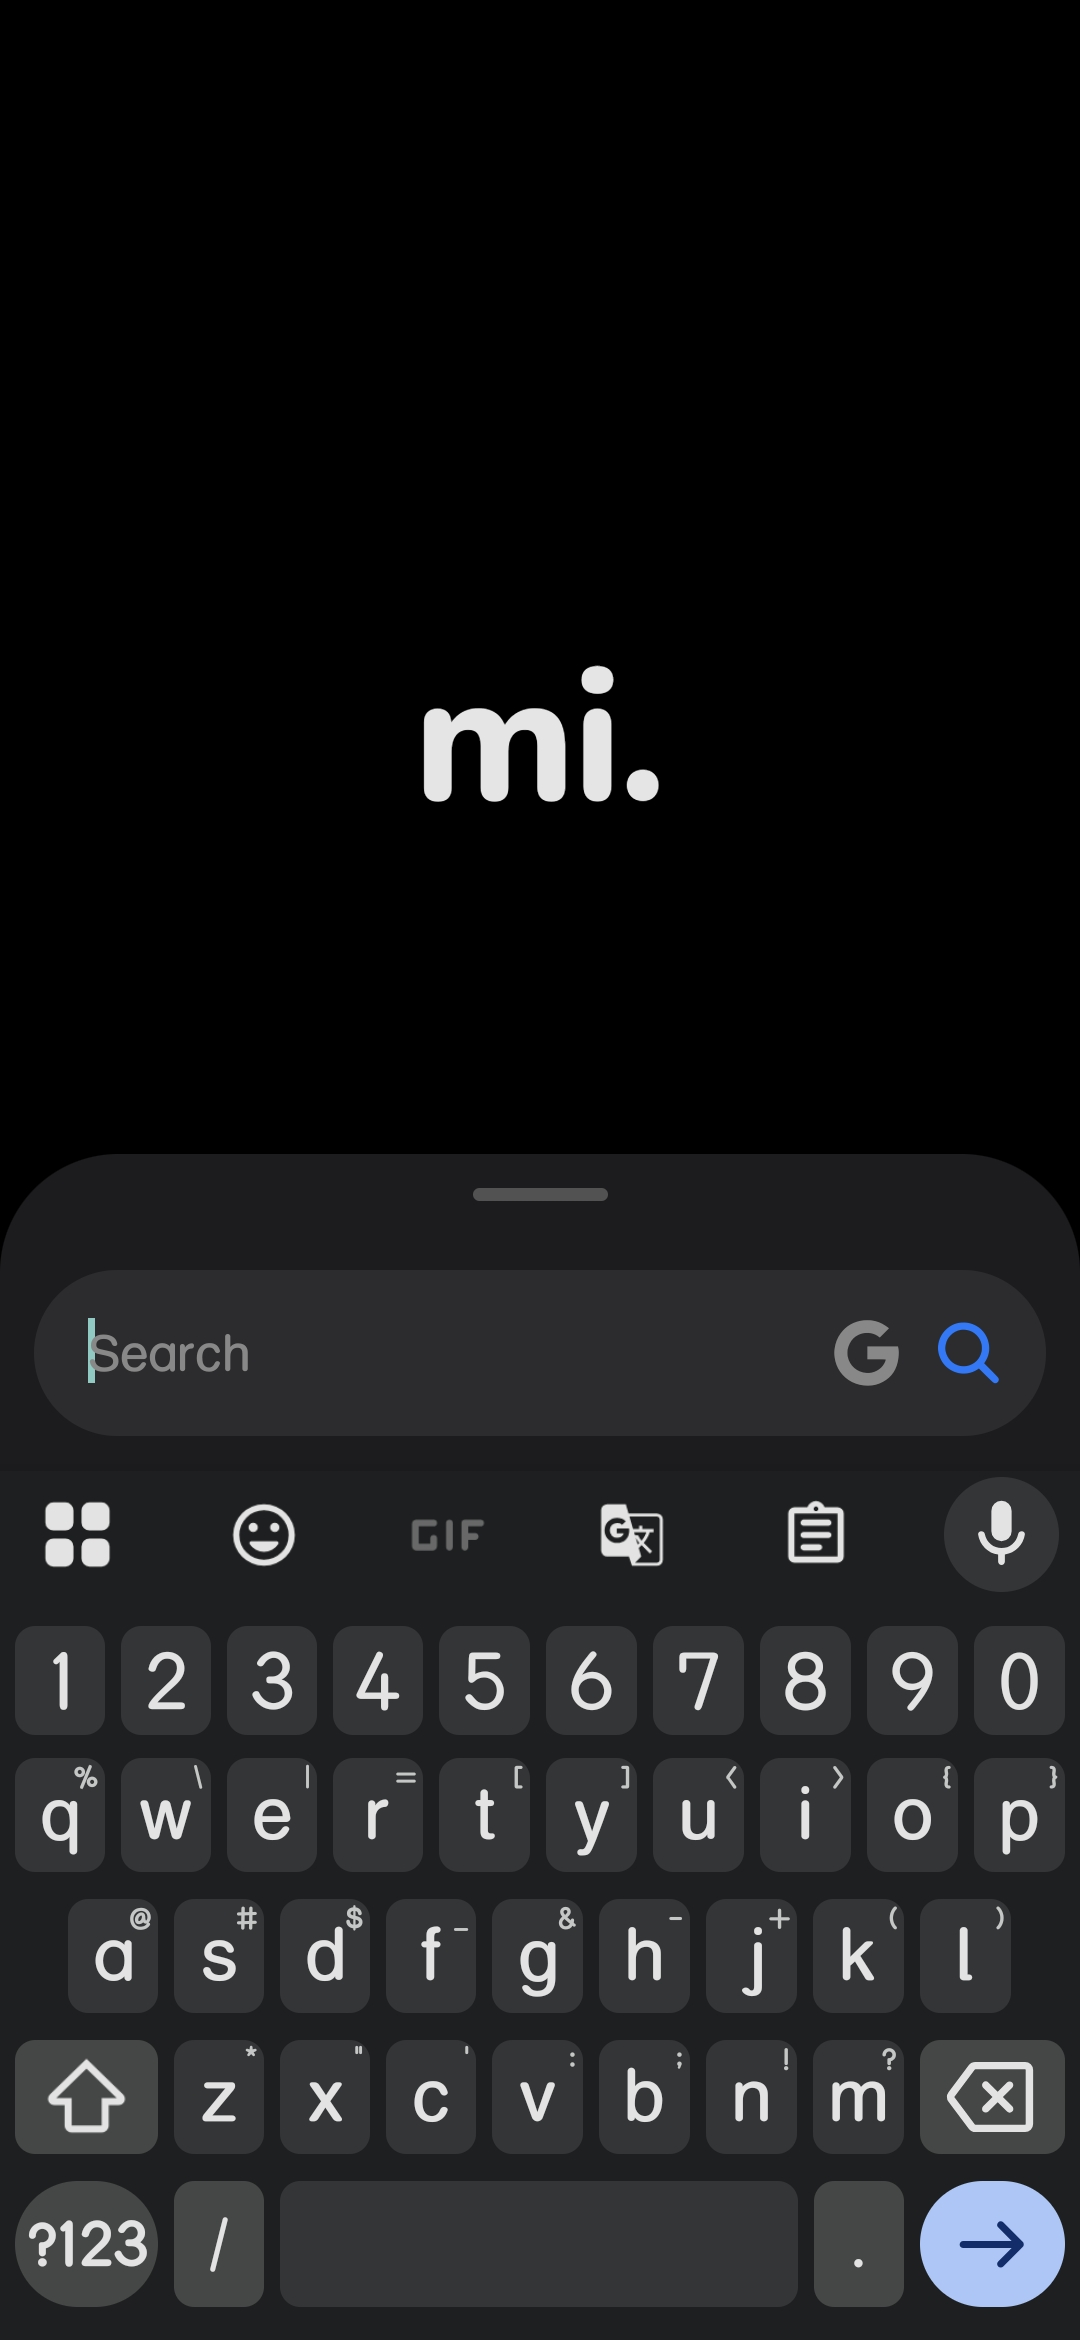
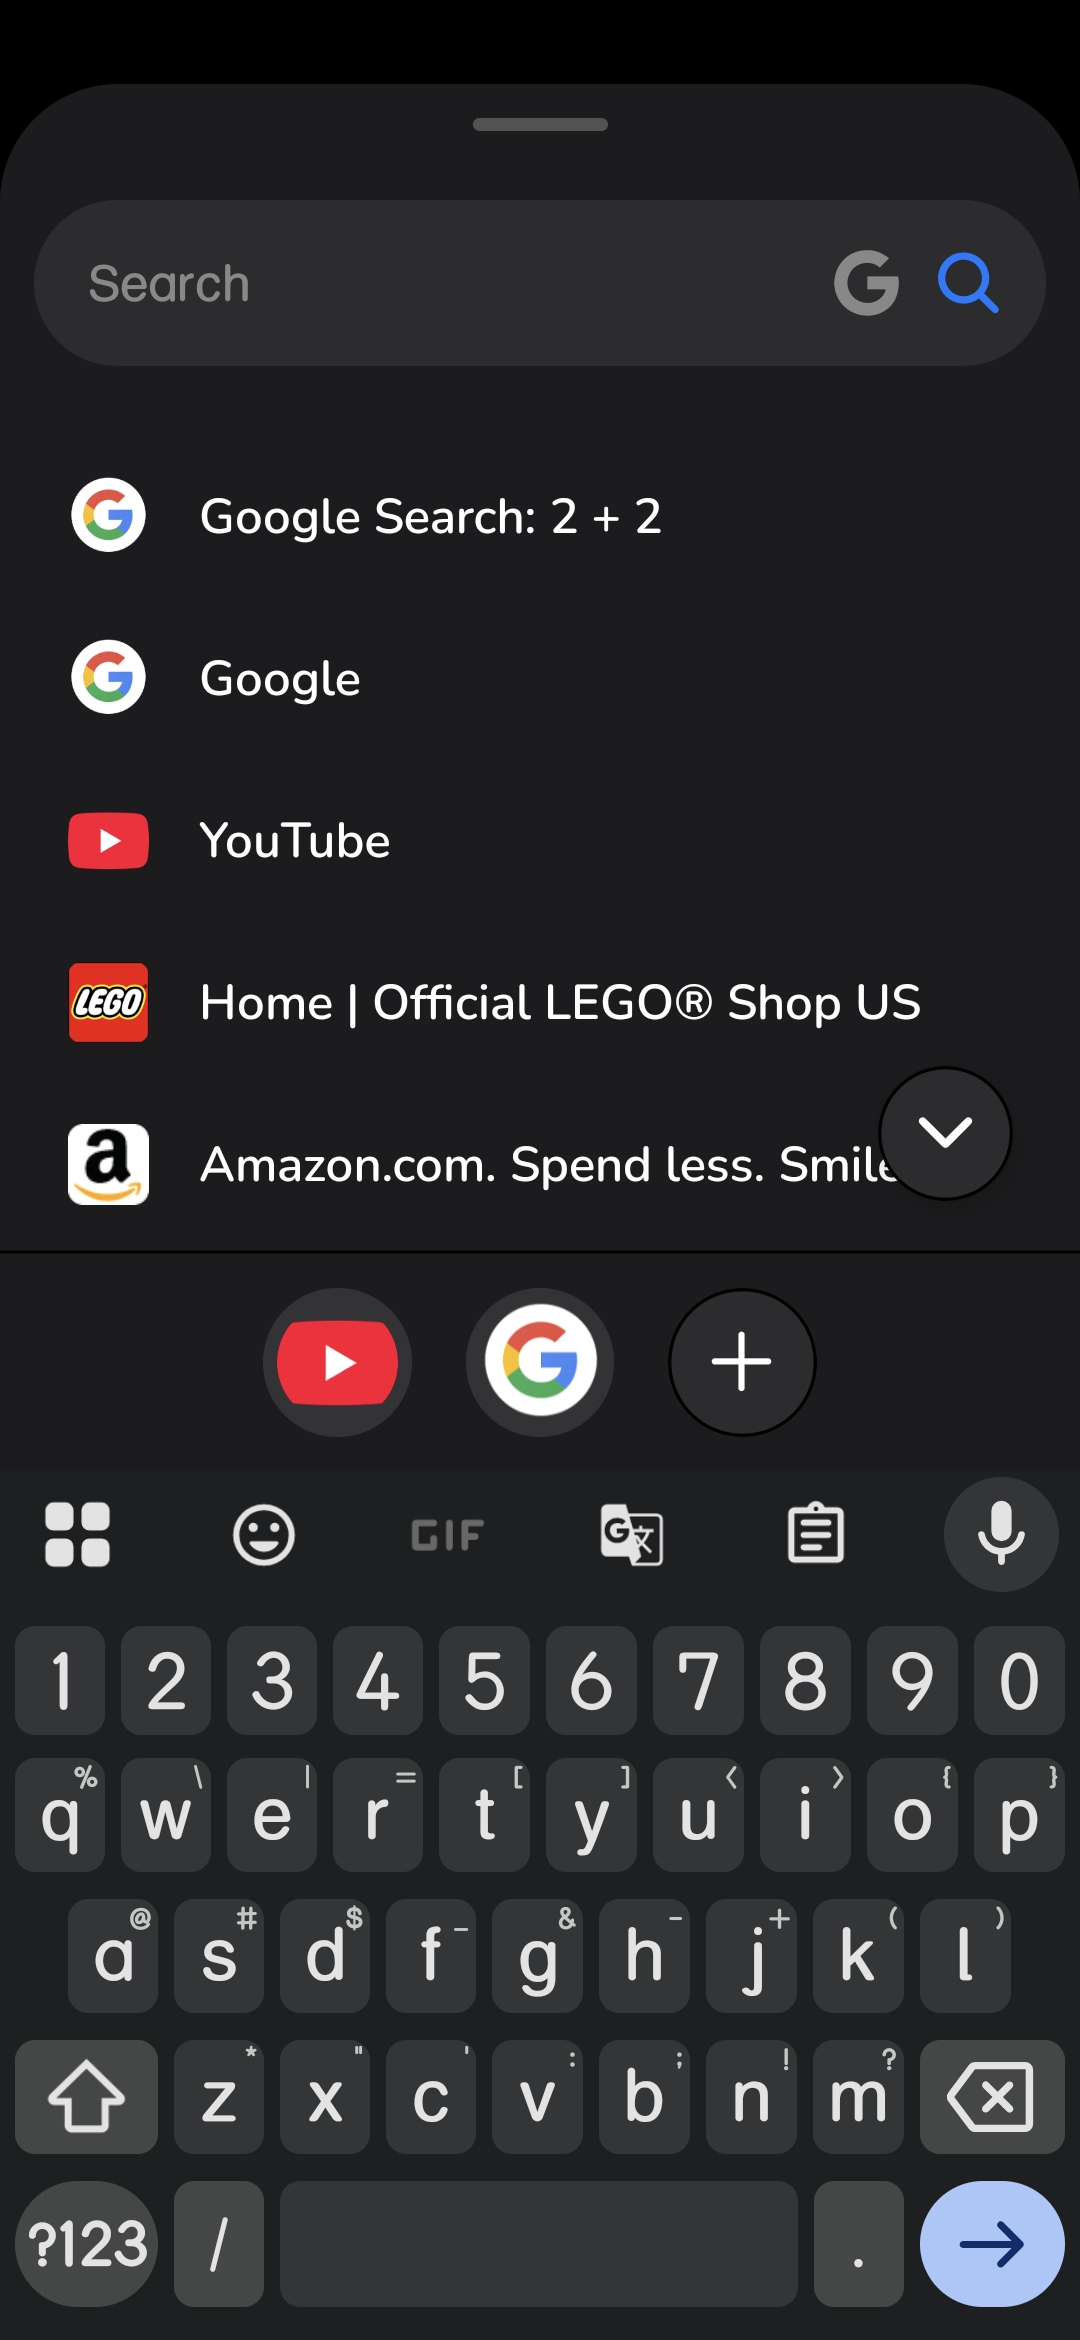
updated gh page for 0.9.2

diff --git a/docs/src/app/user/page.tsx b/docs/src/app/user/page.tsx
@@ -132,27 +132,27 @@ export default function UserDocs() {
               </div>
             </motion.div>
 
-            {/* 3. Recent History Drawer - IMAGE RIGHT */}
+            {/* 3. Expanded Search Drawer - IMAGE RIGHT */}
             <motion.div id="recent-history" {...fadeInUp} className="space-y-12">
               <div className="flex items-center justify-center sm:justify-start gap-3">
                 <div className="p-2 rounded-xl bg-blue-500/10 text-blue-600">
-                  <Clock size={24} />
+                  <Maximize size={24} />
                 </div>
-                <h2 className="text-2xl sm:text-3xl font-bold tracking-tight">Recent History</h2>
+                <h2 className="text-2xl sm:text-3xl font-bold tracking-tight">Expanded Search</h2>
               </div>
               <div className="grid lg:grid-cols-2 gap-12 items-center text-center sm:text-left">
                 <div className="space-y-6">
                   <p className="text-base sm:text-lg text-white/60 leading-relaxed font-medium">
-                    Access your recent visits without leaving the search experience. When the search pill is focused, a dedicated handle appears.
+                    Access your history and favorite sites without leaving the search experience. When the search pill is focused, an expanded interaction area appears.
                   </p>
                   <div className="space-y-4 inline-block text-left w-full">
-                    <GuideItem icon={<GripHorizontal size={18}/>} title="The Handle" desc="When typing, look for the small handle directly above the Search Pill." />
-                    <GuideItem icon={<ChevronRight size={18} className="-rotate-90"/>} title="Drag Up" desc="Grab the handle and drag upwards to reveal a quick-access list of your most recent searches and visits." />
-                    <GuideItem icon={<RefreshCw size={18} className="rotate-90"/>} title="Close" desc="Drag the handle back down or tap the close button to dismiss. The search bar will return to its default position above the keyboard." />
-                    <GuideItem icon={<MousePointer2 size={18}/>} title="Instant Navigate" desc="Tap any item in the list to immediately navigate to that page." />
+                    <GuideItem icon={<Clock size={18}/>} title="Recent History" desc="Drag the handle above the Pill upwards to reveal a quick-access list of your most recent visits." />
+                    <GuideItem icon={<FolderHeart size={18}/>} title="Favorites Bar" desc="A persistent row of your top 5 pinned sites sits at the bottom of the drawer for instant navigation." />
+                    <GuideItem icon={<Maximize size={18}/>} title="Adding Favorites" desc="Tap the '+' icon in the Favorites Bar to instantly pin the current page to your quick-access list." />
+                    <GuideItem icon={<Trash2 size={18}/>} title="Managing Favorites" desc="Touch and hold any favorite icon to bring up a confirmation dialog to remove it from the bar." />
                   </div>
                   <div className="p-4 rounded-xl border border-white/5 bg-white/5 text-[10px] sm:text-xs text-white/50">
-                    <p><strong>Auto-Expand:</strong> You can enable &apos;Show Recent History&apos; in Settings to automatically open this drawer every time you focus the Pill.</p>
+                    <p><strong>Configurable:</strong> Use settings to automatically expand history or keep the Favorites Bar visible every time you focus the Pill.</p>
                   </div>
                 </div>
                 <DeviceMockup src="/images/recent_history.jpg" color="blue" />
@@ -292,6 +292,9 @@ export default function UserDocs() {
                   </div>
                   <div id="setting-recent-history">
                     <SettingItem title="Show Recent History" desc="Toggles whether your most recent searches are automatically expanded when opening the Pill." />
+                  </div>
+                  <div id="setting-always-show-favorites">
+                    <SettingItem title="Always Show Favorites" desc="Keeps the Favorites Bar visible at the bottom of the search drawer whenever the Pill is focused." />
                   </div>
                 </SettingsSection>
 

diff --git a/docs/src/app/developer/page.tsx b/docs/src/app/developer/page.tsx
@@ -61,12 +61,13 @@ export default function DeveloperDocs() {
                         <div className="grid grid-cols-2 sm:grid-cols-3 lg:grid-cols-5 gap-4">
                           {[
                             { name: "Homepage", src: "/images/homepage.jpg" },
+                            { name: "Focused Pill", src: "/images/focused_pill.jpg" },
+                            { name: "Expanded Search", src: "/images/recent_history.jpg" },
                             { name: "Dashboard", src: "/images/dashboard.jpg" },
                             { name: "Tabs Grid", src: "/images/tab_grid.jpg" },
                             { name: "Tabs List", src: "/images/tab_rows.jpg" },
                             { name: "Bookmarks", src: "/images/bookmarks.jpg" },
                             { name: "History", src: "/images/history.jpg" },
-                            { name: "Recent History", src: "/images/recent_history.jpg" },
                             { name: "Power Tools", src: "/images/power_tools.jpg" },
                             { name: "Settings", src: "/images/settings.jpg" },
                           ].map((img) => (
